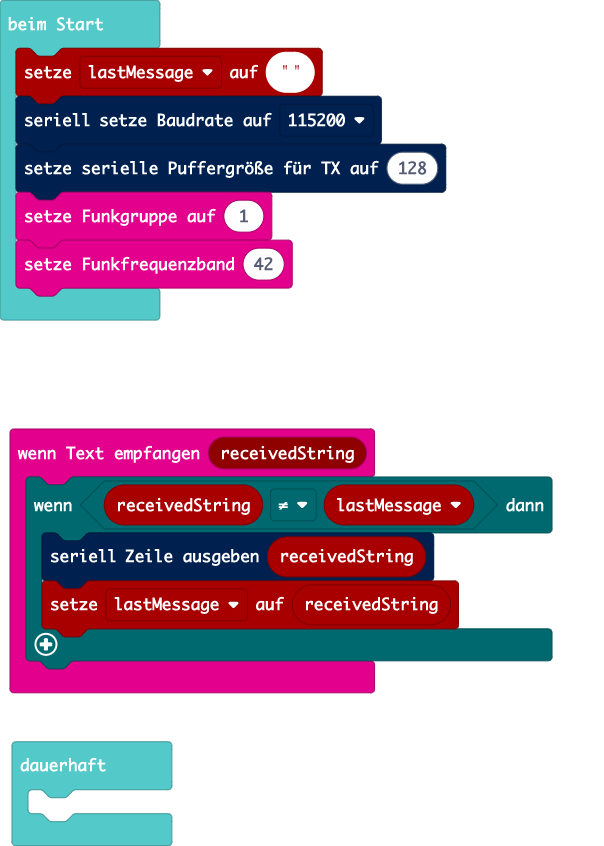
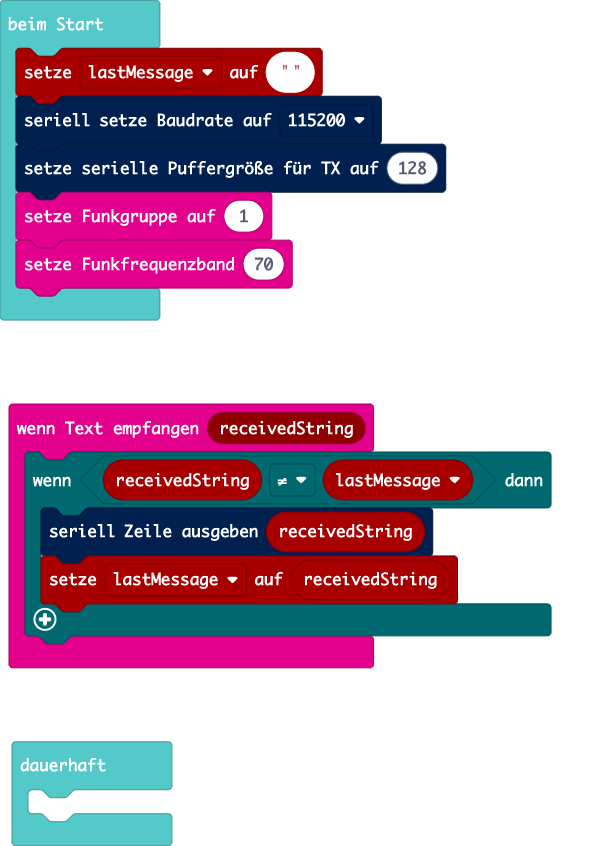
Aktualisiere main.blocks, main.ts

diff --git a/main.ts b/main.ts
@@ -9,7 +9,7 @@ lastMessage = ""
 serial.setBaudRate(BaudRate.BaudRate115200)
 serial.setTxBufferSize(128)
 radio.setGroup(1)
-radio.setFrequencyBand(42)
+radio.setFrequencyBand(70)
 basic.forever(function () {
 	
 })
